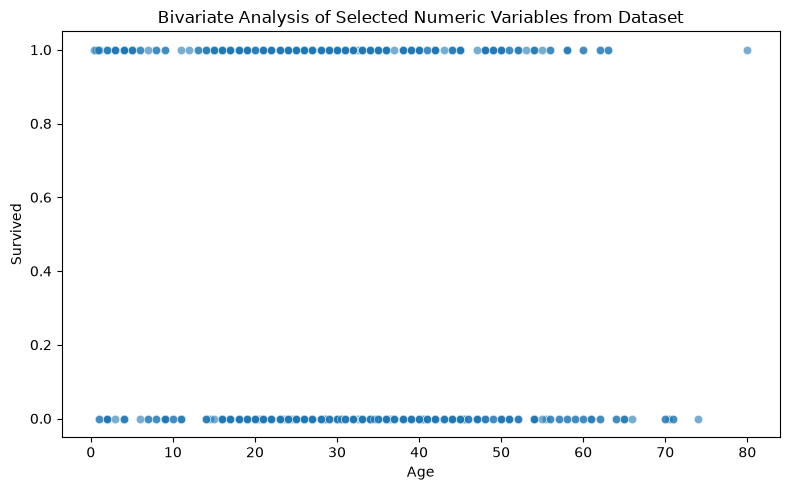
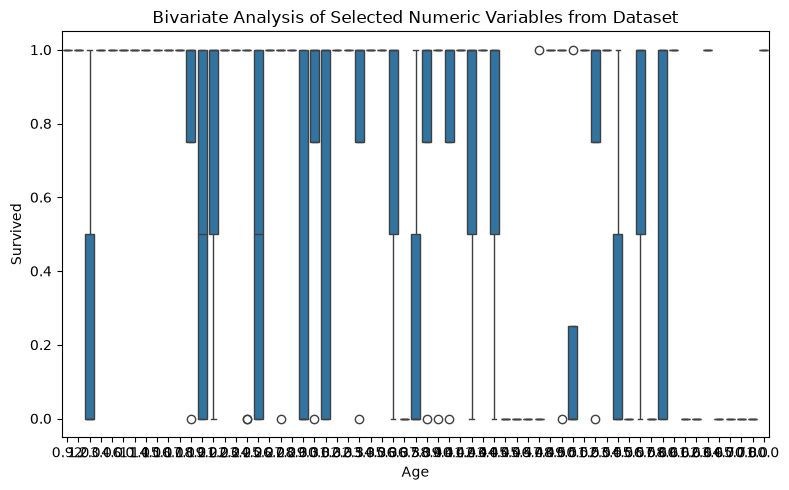
Added graphing options, import for Cryptography / Fernet
Added form select for different graphing options to be chosen from dropdown.

Imported cryptography and Fernet for eventual use in a user login / kaggle information entry.

diff --git a/templates/dashboard.html b/templates/dashboard.html
@@ -33,6 +33,7 @@
             </div>
         </div>
 
+        <!-- Display only with loaded data -->
         {% if data %}
             <hr class="my-5">
             
@@ -51,7 +52,7 @@
 
             <div class="data-display-card">
                 <div class="d-flex justify-content-between align-items-center flex-wrap mb-3">
-                    <h4 class="mb-0">At a Glance: First 50 Rows of Data</h4>
+                    <h4 class="mb-0">First 50 Rows of Data</h4>
                     
                     <form method="POST" action="{{ url_for('clean_data') }}" class="mb-0">
                         <input type="hidden" name="action" value="button_drop_missing">
@@ -66,6 +67,7 @@
 
             
             <div class="form-card">
+                
                 <h5 class="mb-3">Compare Columns Graphically</h5>
 
                 <form method="POST" action="{{ url_for('plot_bivariate') }}">
@@ -89,6 +91,15 @@
                         </select>
                     </div>
 
+                    <div class="mb-3">
+                        <label class="form-label text-muted small fw-bold">Choose graph</label>
+                        <select name="graph_type" class="form-select">
+                            <option value="" disabled selected>Select type of graph</option>
+                                <option value="box">Bar</option>
+                                <option value="scatter">Scatter</option>
+                        </select>
+                    </div>
+
                     <button type="submit" class="btn btn-primary w-100 mt-2">Generate Graph</button>
                 </form>
 
@@ -99,7 +110,6 @@
                         <img src="{{ url_for('static', filename='images/' ~ graph) }}?v={{ timestamp }}" alt="Bivariate Plot" class="img-fluid rounded shadow-sm">>
                     </div>
                 {% endif %}
-
 
             </div>
 

diff --git a/app.py b/app.py
@@ -6,7 +6,8 @@ import matplotlib.pyplot as plt
 from dotenv import load_dotenv
 from flask import Flask, render_template, flash, request, redirect, url_for
 from werkzeug.utils import secure_filename
-import zipfile
+from cryptography.fernet import Fernet
+#PLANNED FEATURE: Create user authentication with fernet / sql
 
 #load environment variables before use in analytics
 load_dotenv()
@@ -140,6 +141,12 @@ def plot_bivariate():
     file_path = os.path.join(app.config['UPLOAD_FOLDER'], active_file)
     df = analytics.load_dataframe(file_path)
     #Write helper function to duplicate this code later
+
+    #Request the graph type to be used from the form
+    graph_type = request.form.get('graph_type')
+
+    if not graph_type:
+        return "Select a graph type", 400
     
     x_col_name = request.form.get('column_a')
     y_col_name = request.form.get('column_b')
@@ -149,7 +156,7 @@ def plot_bivariate():
 
     #Code to clear previous graphs if existing
     plt.clf()
-    graph_axes = analytics.graph_comparison(x_series, y_series)
+    graph_axes = analytics.graph_comparison(x_series, y_series, graph_type)
 
     plot_filename = "dashboard_plot.png"
     plot_filepath = os.path.join(app.root_path, 'static', 'images', plot_filename)

diff --git a/analytics.py b/analytics.py
@@ -62,14 +62,20 @@ def get_numeric_columns(df: pd.DataFrame) -> list:
     return numeric_cols
 
 #Returns a matplot axes value
-def graph_comparison(col1: pd.Series, col2: pd.Series):
+def graph_comparison(col1: pd.Series, col2: pd.Series, graph_type: str):
     #TODO: add cases allowing users to select multiple types of graphs, read in from form dropdown
     x_series = col1
     y_series = col2
 
     plt.figure(figsize=(8, 5))
+    axes_plot = None
+    
+    match graph_type:
+        case "box":
+            axes_plot = sns.boxplot(x = x_series, y = y_series)
+        case "scatter":
+            axes_plot = sns.scatterplot(x = x_series, y = y_series, alpha=0.6)
 
-    axes_plot = sns.scatterplot(x = x_series, y = y_series, alpha=0.6)
     axes_plot.set_title("Bivariate Analysis of Selected Numeric Variables from Dataset")
     plt.tight_layout()
 
